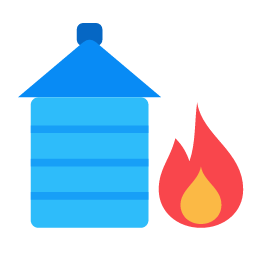
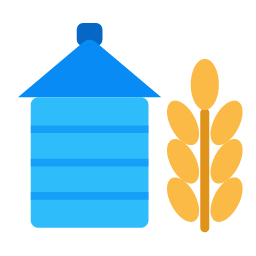
Secadora: icono de silo con espiga de arroz en lugar de la llama

Changed region(s): [[0.5938, 0.2188, 0.9688, 0.9062]]

diff --git a/bascula/__manifest__.py b/bascula/__manifest__.py
@@ -1,7 +1,7 @@
 # -*- coding: utf-8 -*-
 {
     'name': 'Báscula Secadora La Gran Colombia',
-    'version': '19.0.2.28.0',
+    'version': '19.0.2.29.0',
     'category': 'Operations',
     'summary': 'Módulo de pesaje para secadora de arroz',
     'description': """
